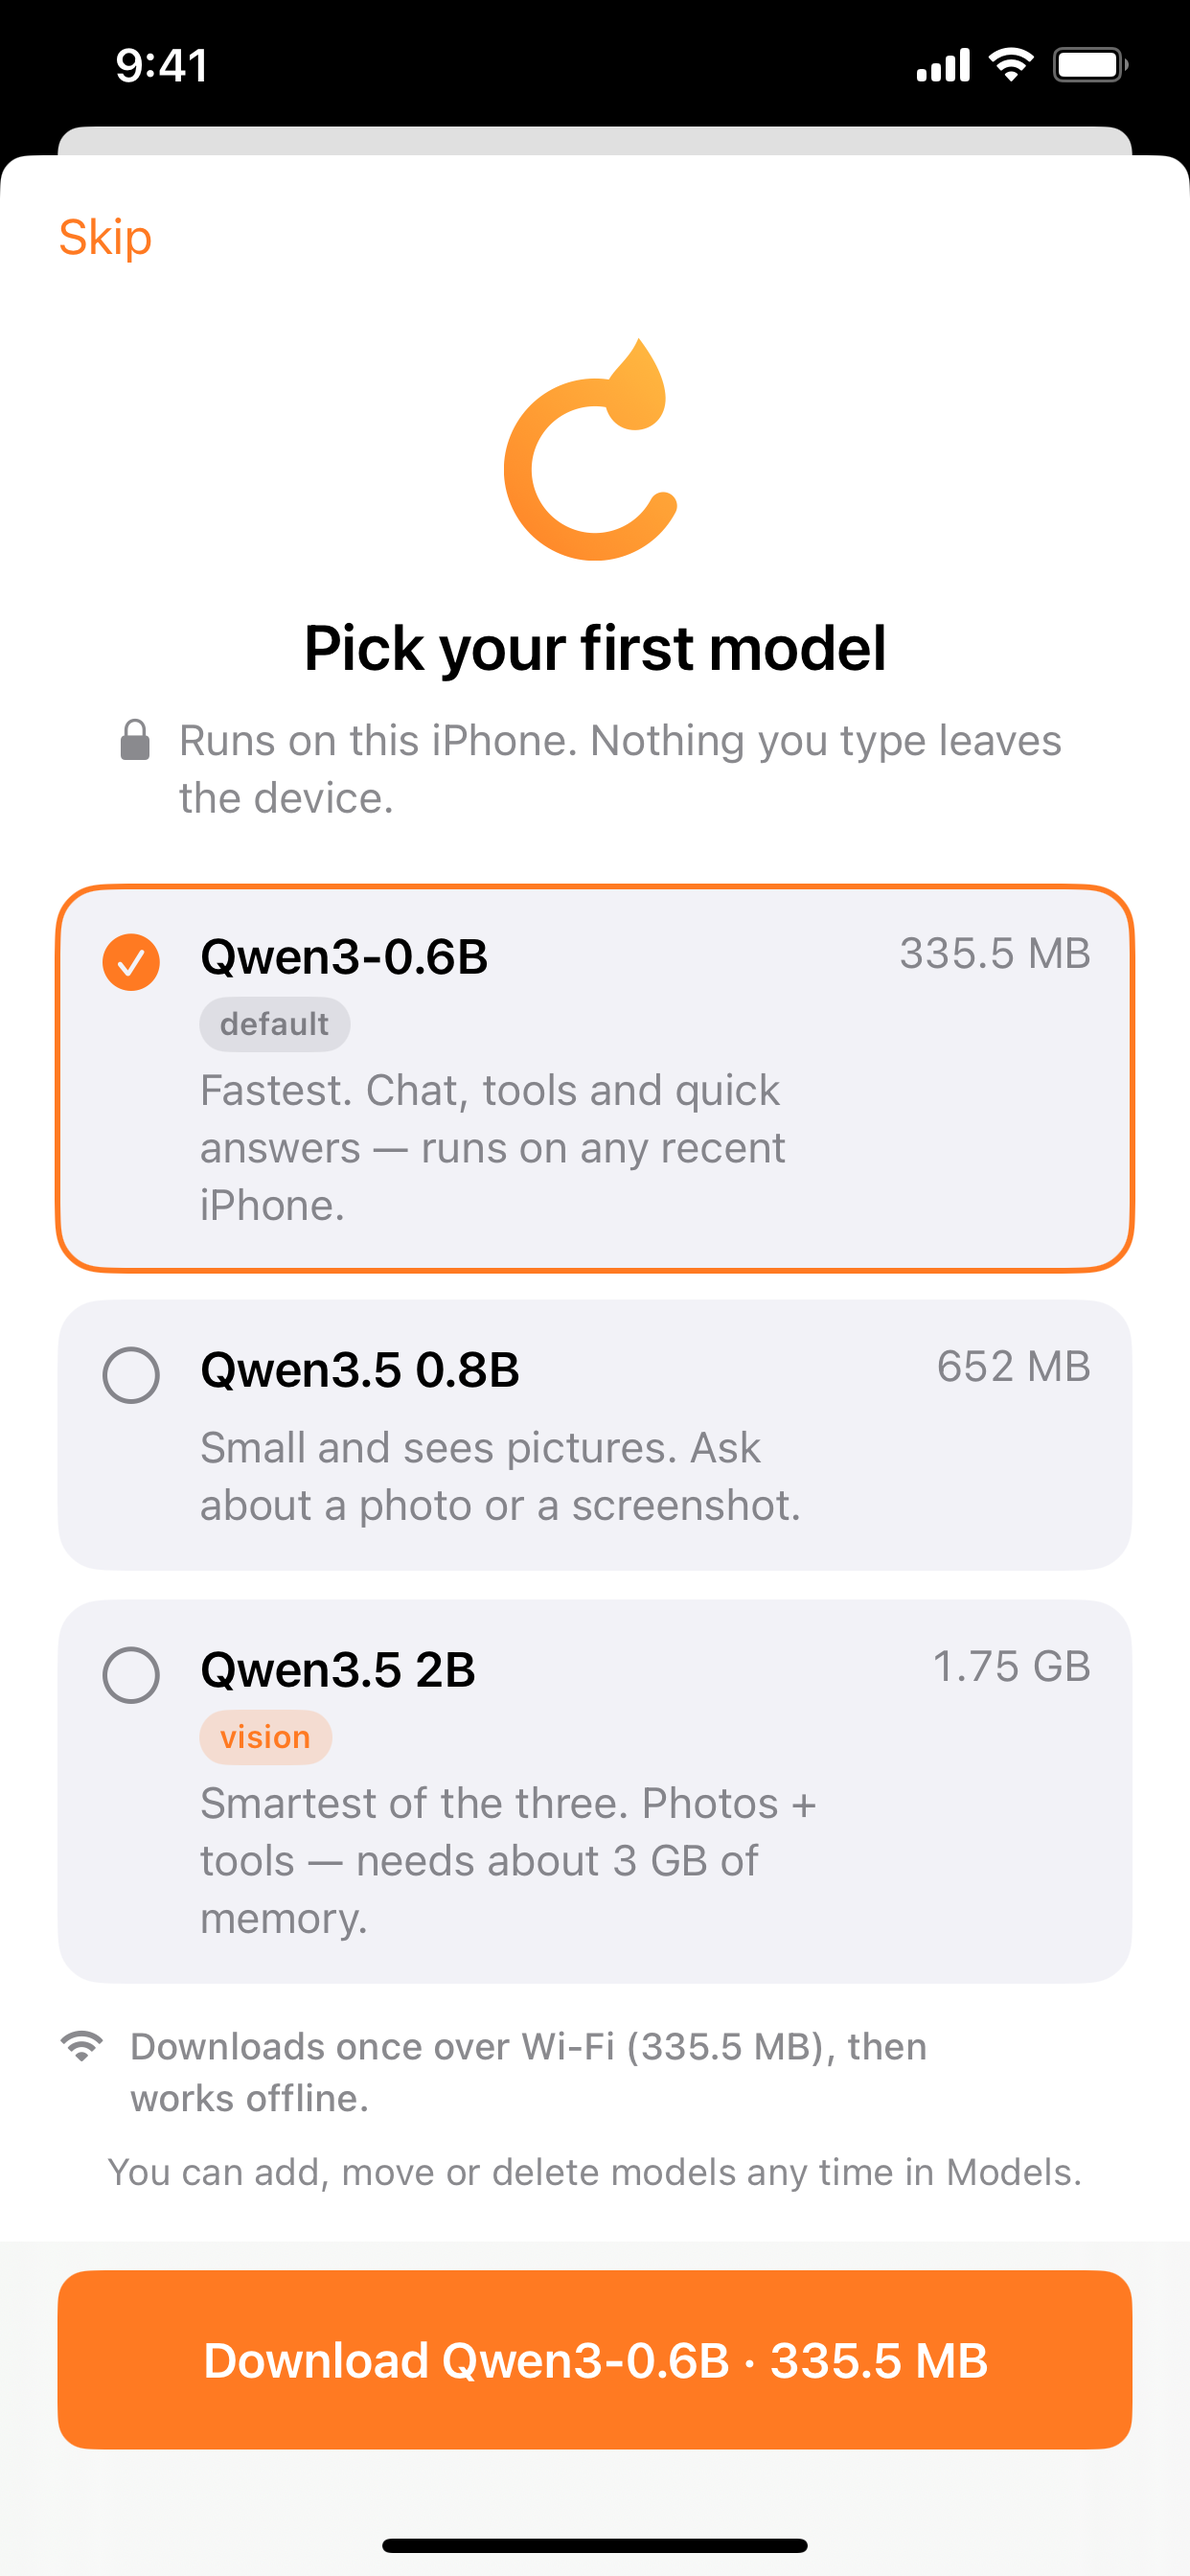
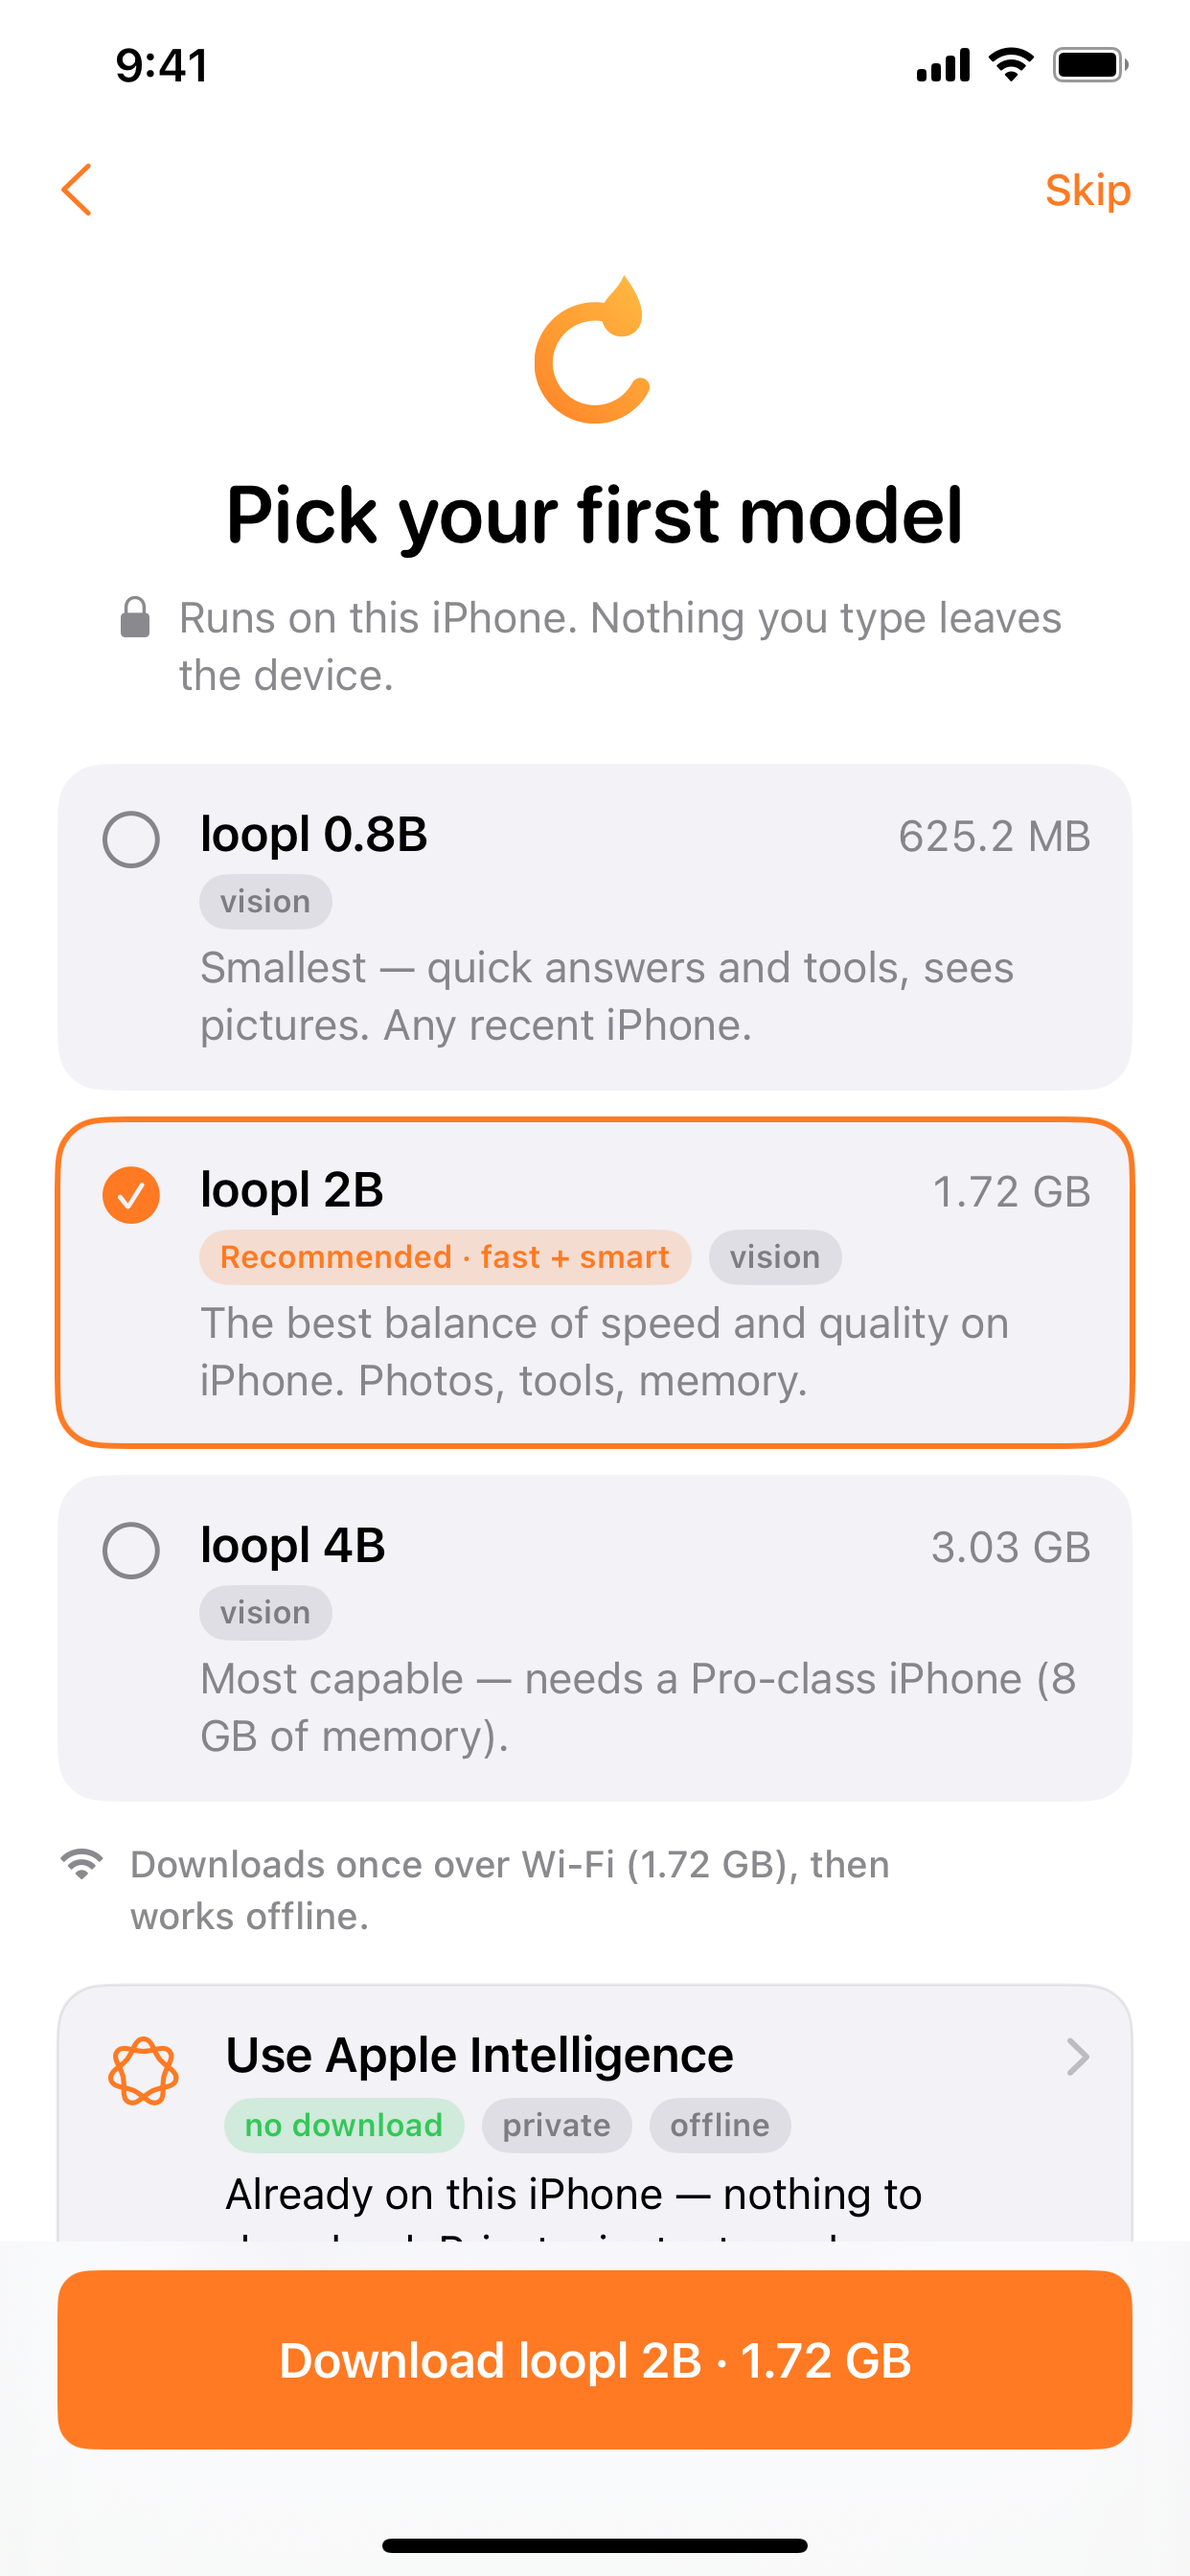
onboarding: App Store shot #10 re-shot (6.9/6.5/ipad13) with the loopl picks + Apple Intelligence card; card copy names the device

diff --git a/App/Sources/Views/OnboardingView.swift b/App/Sources/Views/OnboardingView.swift
@@ -43,9 +43,9 @@ enum Onboarding {
     /// One line of plain language per pick; anything else falls back to the row's own notes.
     static func blurb(_ spec: ModelSpec) -> String {
         switch spec.id {
-        case "loopl-0.8b-4bit": "Smallest — quick answers and tools, sees pictures. Any recent iPhone."
-        case "loopl-2b-4bit": "The best balance of speed and quality on iPhone. Photos, tools, memory."
-        case "loopl-4b-4bit": "Most capable — needs a Pro-class iPhone (8 GB of memory)."
+        case "loopl-0.8b-4bit": "Smallest — quick answers and tools, sees pictures. Any recent \(LooplDesign.deviceName)."
+        case "loopl-2b-4bit": "The best balance of speed and quality on \(LooplDesign.deviceName). Photos, tools, memory."
+        case "loopl-4b-4bit": LooplDesign.deviceName == "iPhone" ? "Most capable — needs a Pro-class iPhone (8 GB of memory)." : "Most capable — needs 8 GB of memory (Pro-class \(LooplDesign.deviceName))."
         case "qwen3-0.6b-4bit": "Fastest. Chat, tools and quick answers — runs on any recent iPhone."
         case "qwen3.5-0.8b-4bit": "Small and sees pictures. Ask about a photo or a screenshot."
         case "qwen3.5-2b-4bit": "Smartest of the three. Photos + tools — needs about 3 GB of memory."
